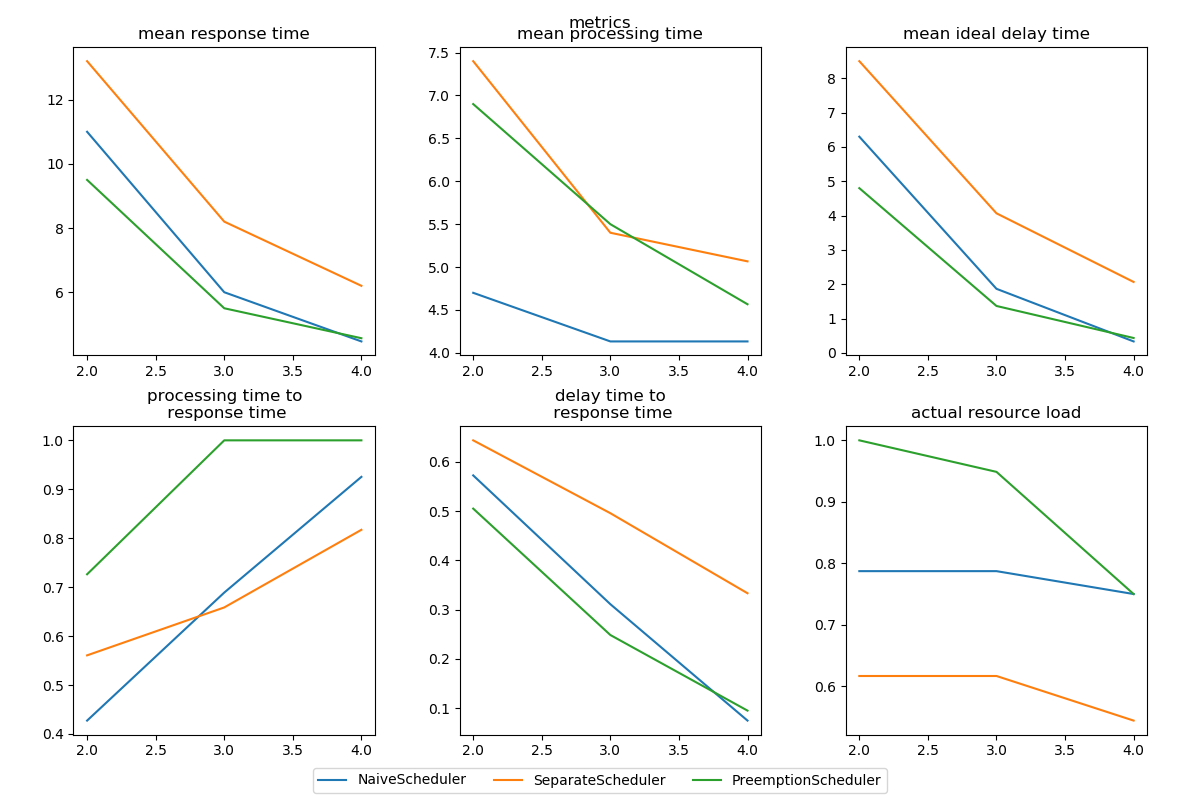
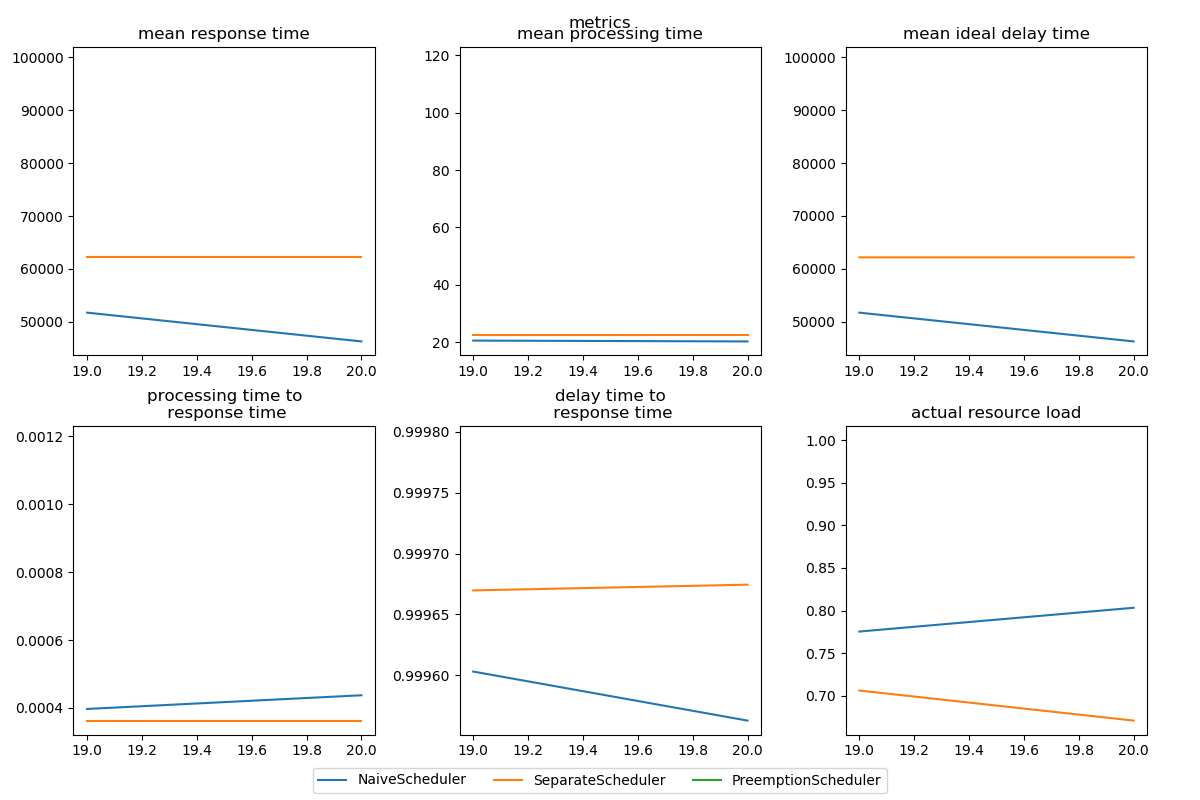
Generator enhancement

diff --git a/generator.py b/generator.py
@@ -8,49 +8,117 @@ from models import Task
 
 class Generator:
 
-    def __init__(self, n: int,
-                 min_max_resources: Tuple[int, int],
-                 # bimodal distribution of base length of task
-                 min_max_small: Tuple[int, int], min_max_big: Tuple[int, int], p_of_big: float,
-                 # normal distribution of time spaces between tasks
-                 mean_std_time_spaces: Tuple[float, float],
-                 length_function: Callable[['Task', int], float],
+    SETTINGS = {
+        0.3: {'p': 0.5},
+        1: {'p': 0.4},
+        2: {'p': 0.15},
+        5: {'p': 0.03},
+        10: {'p': 0.005}
+    }
+
+    def __init__(self, task_number: int,
+                 processors_number: int,
+                 parameter,
+                 load: float,
                  print_plots=False):
-        self.n = n
-        self.min_max_resources = min_max_resources
-        self.min_max_small = min_max_small
-        self.min_max_big = min_max_big
-        self.p_of_big = p_of_big
-        self.mean_std_time_spaces = mean_std_time_spaces
-        self.length_function = length_function
+        self.n = task_number
+        self.param = parameter
+        self.proc = processors_number
+        self.load = load
+        self._big_tasks = 0
+        self._min_max_small = (100, 350)
+        self._min_max_big = self._min_max_small
+        self._p_of_big = Generator.SETTINGS[self.param]['p']
+        self.length_function = lambda z, n: z.base_length / n
         self.print_plots = print_plots
 
     def generate(self):
-        base_lengths = [int(self._bimodal()) for _ in range(self.n)]
+        print("===== Data generation =====")
+        base_lengths = self._generate_base_length()
+        min_r, max_r = self._calculate_min_max()
 
-        mean_time_spaces, std_time_spaces = self.mean_std_time_spaces
-        time_spaces = np.random.normal(mean_time_spaces, std_time_spaces, self.n)
+        print("Number of big tasks")
+        print(self._big_tasks)
+
+        print("\nAverage task length")
+        print(np.mean(base_lengths))
+
+        print("\nAverage task length divided by min processors")
+        mean_run_time = np.mean([base_lengths[i] / min_r[i] for i in range(self.n)])
+        print(mean_run_time)
+
+        print("\nAverage time to submit tasks")
+        mean_time_space = mean_run_time / (self.load * self.proc)
+        print(mean_time_space)
+
+        print("\nAverage time to submit tasks")
+        time_spaces = np.random.normal(mean_time_space, mean_time_space * 0.05, self.n)
+        print(np.mean(time_spaces))
+
         time = []
         clock = 0
         for space in time_spaces:
             time.append(clock)
-            clock += abs(space)
+            clock += int(abs(space))
 
         if self.print_plots:
             self._print_plot(base_lengths, time_spaces)
 
-        min_resources, max_resources = self.min_max_resources
-        return [Task(i, time[i], min_resources, max_resources,
+        print("===== End of data generation =====")
+        return [Task(i, time[i], min_r[i], max_r[i],
                      base_lengths[i], self.length_function) for i in range(self.n)]
 
+    def _generate_base_length(self):
+        base_lengths = [int(self._bimodal()) for _ in range(self.n)]
+        coef = self._coefficient_of_variation(base_lengths)
+        direction = 1
+        min_s, max_s = self._min_max_small
+        step = max_s - min_s
+
+        while not (self.param - self.param * 0.05 < coef < self.param + self.param * 0.05):
+            self._big_tasks = 0
+            min_b, max_b = self._min_max_big
+            self._min_max_big = (min_b + step * direction, max_b + step * direction)
+            base_lengths = [int(self._bimodal()) for _ in range(self.n)]
+            coef = self._coefficient_of_variation(base_lengths)
+            if coef > self.param:
+                direction = -1
+                step = step // 2 if step // 2 > 0 else 1
+            else:
+                direction = 1
+                step = int(step * 2.1)
+
+        return base_lengths
+
     def _bimodal(self):
-        toss = np.random.choice((1, 2), p=(1 - self.p_of_big, self.p_of_big))
+        toss = np.random.choice((1, 2), p=(1 - self._p_of_big, self._p_of_big))
         if toss == 1:
-            low1, high1 = self.min_max_small
+            low1, high1 = self._min_max_small
             return random.triangular(low1, high1)
         else:
-            low2, high2 = self.min_max_big
+            self._big_tasks += 1
+            low2, high2 = self._min_max_big
             return random.triangular(low2, high2)
+
+    def _calculate_min_max(self):
+        min_r = np.random.gamma(2., 1., self.n)
+        min_r = [int(1 + np.round(i)) for i in min_r]
+        max_r = np.random.gamma(1., 1., self.n)
+        max_r = [int(self.proc / 2 + i * (self.proc / 2)) for i in max_r]
+        # count, bins, ignored = plt.hist(max_r, 50, density=True)
+        # y = bins ** (shape - 1) * (np.exp(-bins / scale) / (sps.gamma(shape) * scale ** shape))
+        # plt.plot(bins, y, linewidth=2, color='r')
+        # plt.show()
+        min_max = [(i, j) if i < j else (i, j + i) for i, j in list(zip(min_r, max_r))]
+        min_r, max_r = zip(*min_max)
+
+        return min_r, max_r
+
+    @staticmethod
+    def _coefficient_of_variation(data: list):
+        mean_p = np.mean(data)
+        std_p = np.std(data)
+        return std_p / mean_p
 
     def _print_plot(self, base_lengths, time_spaces):
         plt.subplot(2, 1, 1)

diff --git a/main.py b/main.py
@@ -13,40 +13,42 @@ def cost_function(task: Task, n: int):
 
 if __name__ == '__main__':
     print("Start")
-    # generator = Generator(10000, (1, 10),
-    #                       (1, 1000), (5000, 6000), 0.1,
-    #                       (500, 50),
-    #                       lambda z, n: z.base_length / n, print_plots=True)
-    # tasks = generator.generate()
-    #
-    # for t in tasks[:10]:
-    #     print(t)
-    #     print(t.calc_length(3))
+    generator = Generator(task_number=10000, processors_number=20,
+                          parameter=0.3, load=1, print_plots=True)
+    instance = generator.generate()
 
-    instance = [
-        Task(0, 0, 1, 3, 10, cost_function),
-        Task(1, 2, 1, 2, 10, cost_function),
-        Task(2, 2, 1, 1, 10, cost_function),
-        Task(3, 10, 1, 3, 4, cost_function),
-        Task(4, 11, 1, 3, 3, cost_function),
-    ]
+    for t in instance[:10]:
+        print(t)
+
+    # instance = [
+    #     Task(0, 0, 1, 3, 10, cost_function),
+    #     Task(1, 2, 1, 2, 10, cost_function),
+    #     Task(2, 2, 1, 1, 10, cost_function),
+    #     Task(3, 10, 1, 3, 4, cost_function),
+    #     Task(4, 11, 1, 3, 3, cost_function),
+    # ]
 
     metrics_all = {}
-    for n_proc in range(2, 5):
+    for n_proc in range(19, 21):
+        print(n_proc)
         metrics = {}
+
+        print("first")
         scheduler1 = NaiveScheduler()
         scheduler1.schedule(n_proc, instance)
         metrics[scheduler1.get_name()] = get_metrics(scheduler1.procesors)
 
+        print("second")
         scheduler2 = SeparateScheduler(5, 0.25)
         scheduler2.schedule(n_proc, instance)
         metrics[scheduler2.get_name()] = get_metrics(scheduler2.procesors)
 
+        print("third")
         scheduler3 = PreemptionScheduler()
         scheduler3.schedule(n_proc, instance)
         metrics[scheduler3.get_name()] = get_metrics(scheduler3.procesors)
 
         metrics_all[n_proc] = metrics
-        print_schedulings(instance, [scheduler1, scheduler2, scheduler3], "gantt.png")
+        # print_schedulings(instance, [scheduler1, scheduler2, scheduler3], "gantt.png")
 
     print_metrics(metrics_all, "metrics", "metrics.png")
